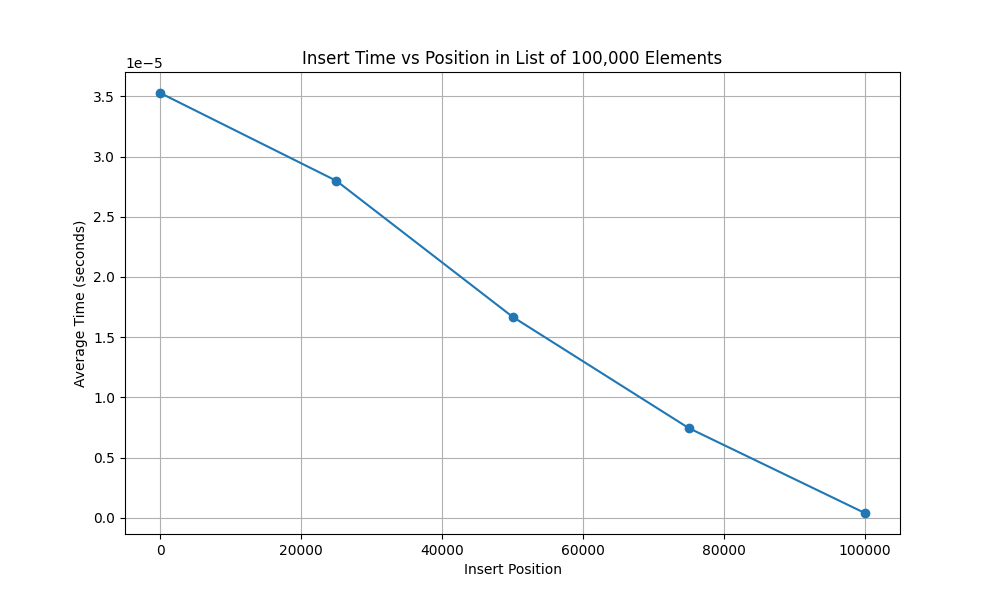
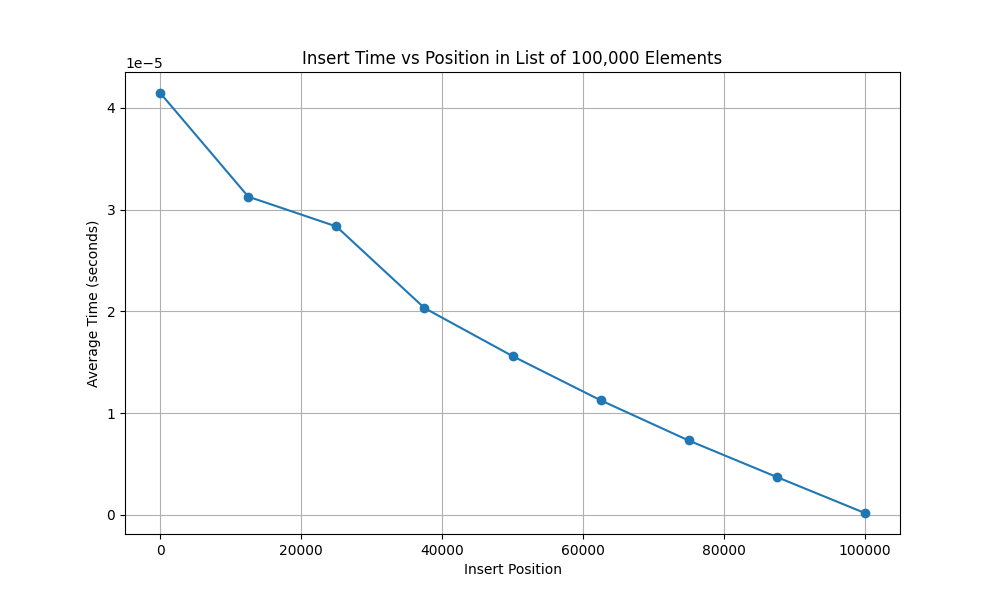
refactored the code for testing insertions into lists to be cleaner and less bulky

diff --git a/code/lists/insertion.py b/code/lists/insertion.py
@@ -4,47 +4,103 @@ import matplotlib.pyplot as plt
 N_ITER = 100
 
 
-def list_append_timing(lst: list, element: object, n_iter: int = N_ITER):
-    total_time = 0
+def time_list_insertion_op(lst, element, action="append", pos=None, n_iter=N_ITER):
+    """
+    Measures average time of lst.append(element) or lst.insert(pos, element),
+    undoing each operation to keep the list size constant.
+    """
+    # Validate action once
+    if action not in ("append", "insert"):
+        raise ValueError(f"action cannot have value '{action}'")
+
+    total = 0.0
     for _ in range(n_iter):
         start = time.perf_counter()
-        lst.append(element)
-        total_time += time.perf_counter() - start
-        lst.pop()  # undo to keep list size constant
-    duration = total_time / n_iter
-    print(f"Average append time over {n_iter} iterations: {duration:.10f} seconds")
-    return duration
+        if action == "append":
+            lst.append(element)
+        else:
+            lst.insert(pos, element)
+        total += time.perf_counter() - start
+
+        # undo
+        if action == "append":
+            lst.pop()
+        else:
+            del lst[pos]
+
+    avg = total / n_iter
+    print(f"Average {action} time over {n_iter} iterations: {avg:.10f} seconds")
+    return avg
 
 
-def list_insert_timing(
-    lst: list, element: object, position: int, n_iter: int = N_ITER
-) -> None:
-    total_time = 0
-    for _ in range(n_iter):
-        start = time.perf_counter()
-        lst.insert(position, element)
-        total_time += time.perf_counter() - start
-        del lst[position]  # undo to keep list size constant
-    duration = total_time / n_iter
-    print(f"Average append time over {n_iter} iterations: {duration:.10f} seconds")
-    return duration
+def run_benchmarks():
+    # (description, initial_list, element, action, positions or None)
+    tests = [
+        (
+            "Append with list of 3 elements",
+            ["chihuahua", "bulldog", "butterfly"],
+            "bernese",
+            "append",
+            None,
+        ),
+        ("Append with list of 1000 elements", list(range(1001)), 1001, "append", None),
+        (
+            "Append with list of 100000 elements",
+            list(range(100001)),
+            51,
+            "append",
+            None,
+        ),
+        (
+            "Insert with list of 10 elements at beg/mid/end",
+            list(range(11)),
+            "hello",
+            "insert",
+            [2, 5, 8],
+        ),
+        (
+            "Insert with list of 1000 elements at beg/mid/end",
+            list(range(1001)),
+            "hello",
+            "insert",
+            [50, 450, 850],
+        ),
+        (
+            "Insert with list of 100000 elements at beg/mid/end",
+            list(range(100001)),
+            "hello",
+            "insert",
+            [50, 50000, 99500],
+        ),
+        (
+            "Insert with list of 100_000_000 elements at beg/mid/end",
+            list(range(100000001)),
+            "hello",
+            "insert",
+            [50, 50000000, 99999500],
+        ),
+    ]
 
+    for desc, lst, elem, action, positions in tests:
+        print(f"> {desc}")
+        print("-" * len(desc))
+        if positions is None:
+            time_list_insertion_op(lst, elem, action)
+        else:
+            for pos in positions:
+                print(f"Insert at index {pos}:", end=" ")
+                time_list_insertion_op(lst, elem, action, pos)
+        print()
 
-def test_insert_speed_100000el_draw_graph():
+    # Special: draw graph for 100k‐element insert
     print("> Insert with list of 100000 elements at various positions")
-    print("----------------------------------------------------------")
-    lst = [i for i in range(100000)]
-    positions = [0, 25000, 50000, 75000, 99999]
-    timings = []
+    print("-" * 58)
+    base = list(range(100000))
+    pos_list = [0, 12500, 25000, 37500, 50000, 62500, 75000, 87500, 99999]
+    times = [time_list_insertion_op(base, "hello", "insert", pos) for pos in pos_list]
 
-    for pos in positions:
-        avg_time = list_insert_timing(lst, "hello", pos)
-        print(f"Insert at index {pos}: {avg_time:.10f} seconds")
-        timings.append(avg_time)
-
-    # Plotting
     plt.figure(figsize=(10, 6))
-    plt.plot(positions, timings, marker="o")
+    plt.plot(pos_list, times, marker="o")
     plt.title("Insert Time vs Position in List of 100,000 Elements")
     plt.xlabel("Insert Position")
     plt.ylabel("Average Time (seconds)")
@@ -52,76 +108,5 @@ def test_insert_speed_100000el_draw_graph():
     plt.show()
 
 
-def test_append_speed_3el():
-    print("> Append with list of 3 elements")
-    print("--------------------------------")
-    dog_breeds = ["chihuahua", "bulldog", "butterfly"]
-    list_append_timing(dog_breeds, "bernese")
-    print()
-
-
-def test_append_speed_1000el():
-    print("> Append with list of 1000 elements")
-    print("--------------------------------")
-    lst = [i for i in range(1001)]
-    list_append_timing(lst, 1001)
-    print()
-
-
-def test_append_speed_100000el():
-    print("> Append with list of 100000 elements")
-    print("--------------------------------")
-    lst = [i for i in range(100001)]
-    list_append_timing(lst, 51)
-    print()
-
-
-def test_insert_speed_10el():
-    print("> Insert with list of 10 elements, at beg than mid then end")
-    print("--------------------------------")
-    lst = [i for i in range(11)]
-    list_insert_timing(lst, "hello", 2)
-    list_insert_timing(lst, "hello", 5)
-    list_insert_timing(lst, "hello", 8)
-    print()
-
-
-def test_insert_speed_1000el():
-    print("> Insert with list of 1000 elements, at beg than mid then end")
-    print("--------------------------------")
-    lst = [i for i in range(1001)]
-    list_insert_timing(lst, "hello", 50)
-    list_insert_timing(lst, "hello", 450)
-    list_insert_timing(lst, "hello", 850)
-    print()
-
-
-def test_insert_speed_100000el():
-    print("> Insert with list of 100000 elements, at beg than mid then end")
-    print("--------------------------------")
-    lst = [i for i in range(100001)]
-    list_insert_timing(lst, "hello", 50)
-    list_insert_timing(lst, "hello", 50000)
-    list_insert_timing(lst, "hello", 99500)
-    print()
-
-
-def test_insert_speed_100000000el():
-    print("> Insert with list of 100_000_000 elements, at beg than mid then end")
-    print("--------------------------------")
-    lst = [i for i in range(100000001)]
-    list_insert_timing(lst, "hello", 50)
-    list_insert_timing(lst, "hello", 50000000)
-    list_insert_timing(lst, "hello", 99999500)
-    print()
-
-
 if __name__ == "__main__":
-    test_append_speed_3el()
-    test_append_speed_1000el()
-    test_append_speed_100000el()
-    test_insert_speed_10el()
-    test_insert_speed_1000el()
-    test_insert_speed_100000el()
-    test_insert_speed_100000000el()
-    test_insert_speed_100000el_draw_graph()
+    run_benchmarks()
